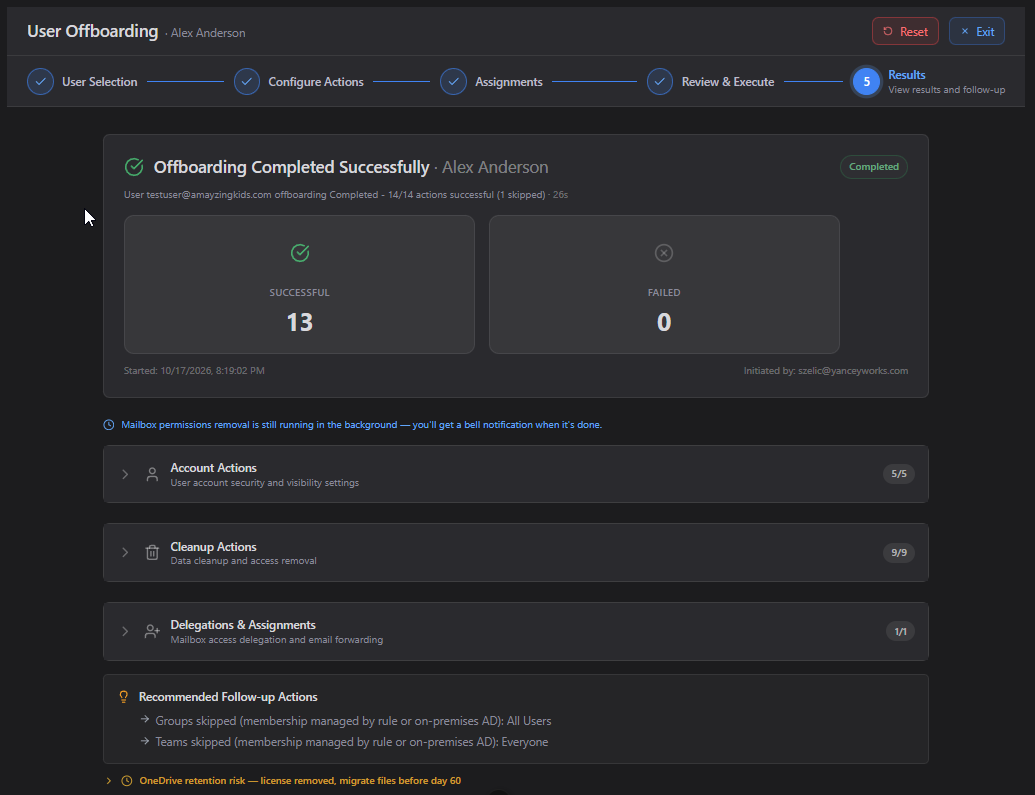
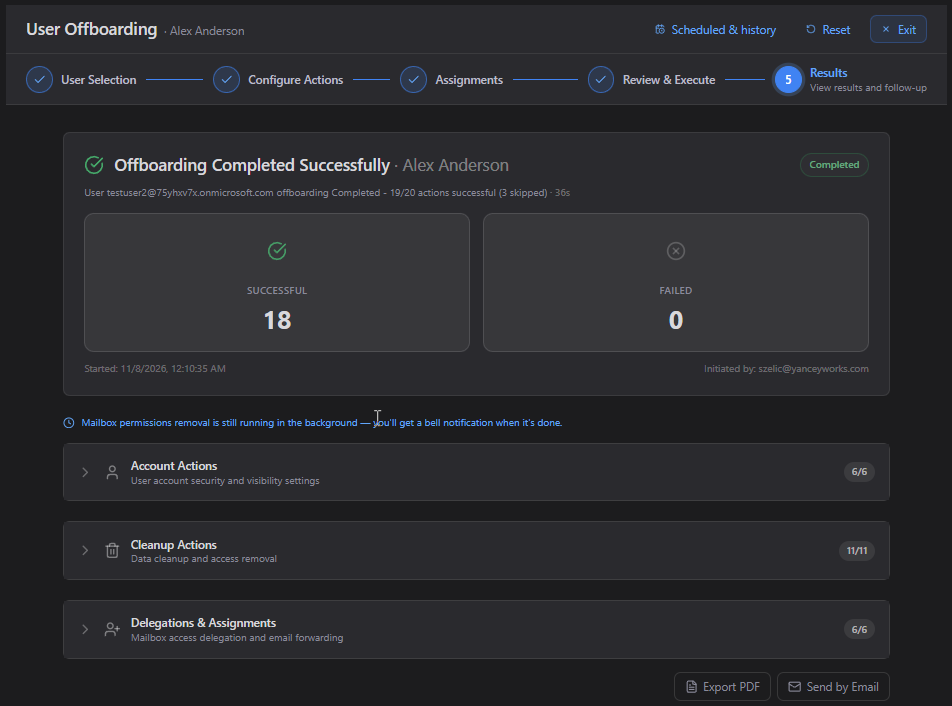
Features: new onboarding and offboarding shots, sized to the same height
The side-by-side row sets each image's width by a flex ratio equal to its aspect
ratio, which gives both the same height. The ratios belonged to the old images;
the new ones are 901x713 and 952x706, so 1.264 and 1.348.

diff --git a/src/App.vue b/src/App.vue
@@ -303,13 +303,13 @@
           </ul>
         </div>
         <div class="feature-wide-img-row feature-wide-img-row--compact">
-          <div class="feature-wide-img" style="flex: 1.18">
+          <div class="feature-wide-img" style="flex: 1.264">
             <img src="/images/UserOnboard.png" alt="ORCHEX User Onboarding — results" />
             <div class="feature-sub-caption">
               <strong>Onboarding — Results</strong>
             </div>
           </div>
-          <div class="feature-wide-img" style="flex: 1.30">
+          <div class="feature-wide-img" style="flex: 1.348">
             <img src="/images/UserOffboard.png" alt="ORCHEX User Offboarding — configure actions" />
             <div class="feature-sub-caption">
               <strong>Offboarding — Configure Actions</strong>
